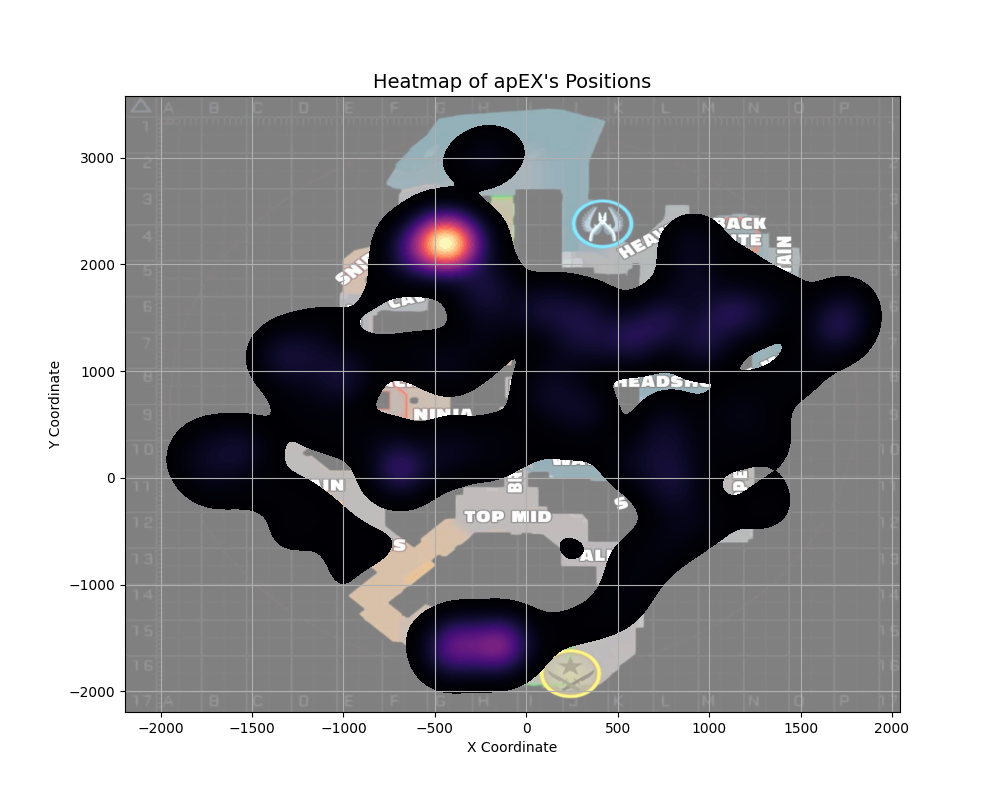
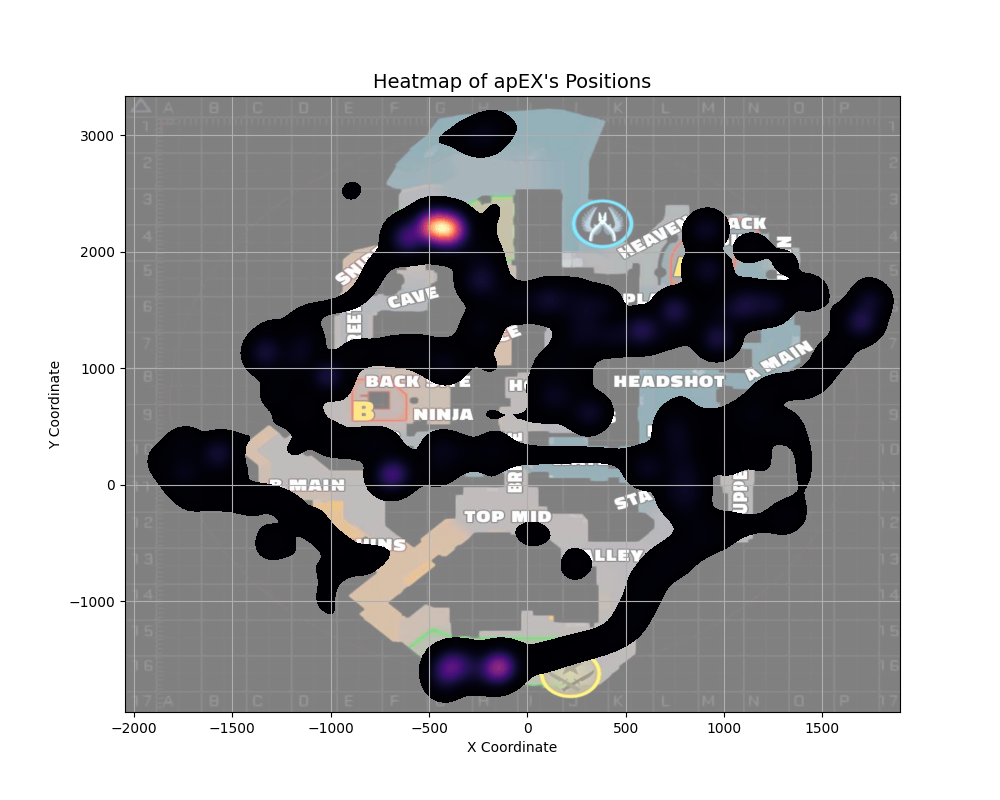
Heatmaps & similarity results plot

diff --git a/player_similarity.py b/player_similarity.py
@@ -11,11 +11,26 @@ import argparse
 from scipy.spatial.distance import jensenshannon
 from cursor_movement import compute_derivatives
 from scipy.stats import wasserstein_distance
-
+from scipy.stats import ks_2samp
+import matplotlib
+matplotlib.use('wxAgg')
+import matplotlib.pyplot as plt
 
 tick_props = [
     'pitch',
     'yaw',
+    'X',
+    'Y',
+    'ducking',
+    'is_airborne',
+]
+
+players_of_interest = [
+    "ZywOo",
+    "ropz",
+    "flameZ",
+    "mezii",
+    "apEX",
 ]
 
 def filter_player_and_map(ticks: pd.DataFrame, player_name: str, map_name: str) -> pd.DataFrame:
@@ -30,13 +45,52 @@ def compute_similarity(new_features: pd.DataFrame, known_features: pd.DataFrame)
     Computes a confidence score based on multiple similarity metrics.
     """
     return (
-        compute_cursor_similarity(new_features, known_features)
+        compute_cursor_similarity_wasserstein(new_features, known_features)
         # TODO: add more metrics here
         # such as heatmap, crouching/jumping, weapon usage, etc.
     ) / 1
     
 
-def compute_cursor_similarity(new_features: pd.DataFrame, known_features: pd.DataFrame) -> float:
+def compute_cursor_similarity_jensenshannon(new_features: pd.DataFrame, known_features: pd.DataFrame) -> float:
+    """
+    Computes a confidence score based on multiple similarity metrics.
+    """
+    new_features = compute_derivatives(new_features, ['yaw', 'pitch'])
+    known_features = compute_derivatives(known_features, ['yaw', 'pitch'])
+
+    pitch_speed_1, _ = np.histogram(new_features['pitch_speed'], bins=50, density=True)
+    pitch_speed_2, _ = np.histogram(known_features['pitch_speed'], bins=50, density=True)
+
+    pitch_speed_jsd = jensenshannon(pitch_speed_1, pitch_speed_2)
+
+    pitch_acceleration_1, _ = np.histogram(new_features['pitch_acceleration'], bins=50, density=True)
+    pitch_acceleration_2, _ = np.histogram(known_features['pitch_acceleration'], bins=50, density=True)
+
+    pitch_acceleration_jsd = jensenshannon(pitch_acceleration_1, pitch_acceleration_2)
+
+    pitch_smoothness_1, _ = np.histogram(new_features['pitch_smoothness'], bins=50, density=True)
+    pitch_smoothness_2, _ = np.histogram(known_features['pitch_smoothness'], bins=50, density=True)
+
+    pitch_smoothness_jsd = jensenshannon(pitch_smoothness_1, pitch_smoothness_2)
+
+    yaw_speed_1, _ = np.histogram(new_features['yaw_speed'], bins=50, density=True)
+    yaw_speed_2, _ = np.histogram(known_features['yaw_speed'], bins=50, density=True)
+
+    yaw_speed_jsd = jensenshannon(yaw_speed_1, yaw_speed_2)
+
+    yaw_acceleration_1, _ = np.histogram(new_features['yaw_acceleration'], bins=50, density=True)
+    yaw_acceleration_2, _ = np.histogram(known_features['yaw_acceleration'], bins=50, density=True)
+
+    yaw_acceleration_jsd = jensenshannon(yaw_acceleration_1, yaw_acceleration_2)
+
+    yaw_smoothness_1, _ = np.histogram(new_features['yaw_smoothness'], bins=50, density=True)
+    yaw_smoothness_2, _ = np.histogram(known_features['yaw_smoothness'], bins=50, density=True)
+
+    yaw_smoothness_jsd = jensenshannon(yaw_smoothness_1, yaw_smoothness_2)
+
+    return 1 - (pitch_speed_jsd + pitch_acceleration_jsd + pitch_smoothness_jsd + yaw_speed_jsd + yaw_acceleration_jsd + yaw_smoothness_jsd) / 6
+
+def compute_cursor_similarity_wasserstein(new_features: pd.DataFrame, known_features: pd.DataFrame) -> float:
     """
     Computes a confidence score based on multiple similarity metrics.
     """
@@ -52,42 +106,170 @@ def compute_cursor_similarity(new_features: pd.DataFrame, known_features: pd.Dat
     p3 = wasserstein_distance(new_features['pitch_smoothness'], known_features['pitch_smoothness'])
     return 1 - (y1 + y2 + y3 + p1 + p2 + p3) / 6
 
+def evaluate_players(new_ticks: pd.DataFrame, known_ticks: pd.DataFrame, players: list, map_name: str):
+    """
+    Evaluate the similarity scores for players of interest.
+    """
+    self_similarities = []
+    other_similarities = []
+    all_players = known_ticks['name'].unique()
 
+    for player in tqdm(players, desc="Evaluating players"):
+        # Filter features for the current player
+        new_features = filter_player_and_map(new_ticks, player, map_name)
+        known_features = filter_player_and_map(known_ticks, player, map_name)
+
+        # Compute self-similarity
+        if not new_features.empty and not known_features.empty:
+            self_similarity = compute_similarity(new_features, known_features)
+            self_similarities.append(self_similarity)
+        
+        # Compute similarity with other players
+        for other_player in [p for p in all_players if p != player]:
+            other_features = filter_player_and_map(known_ticks, other_player, map_name)
+            if not new_features.empty and not other_features.empty:
+                other_similarity = compute_similarity(new_features, other_features)
+                other_similarities.append(other_similarity)
+
+    # Calculate averages
+    avg_self_similarity = np.mean(self_similarities) if self_similarities else 0
+    min_self_similarity = np.min(self_similarities) if self_similarities else 0
+    max_self_similarity = np.max(self_similarities) if self_similarities else 0
+    avg_other_similarity = np.mean(other_similarities) if other_similarities else 0
+    min_other_similarity = np.min(other_similarities) if other_similarities else 0
+    max_other_similarity = np.max(other_similarities) if other_similarities else 0
+
+
+    # Display results
+    print("\nEvaluation Results:")
+    print(f"Average self-similarity: {avg_self_similarity:.4f}")
+    print(f"Min. self-similarity: {min_self_similarity:.4f}")
+    print(f"Max. self-similarity: {max_self_similarity:.4f}")
+    print('-' * 40)
+    print(f"Average similarity with other players: {avg_other_similarity:.4f}")
+    print(f"Min. similarity with other players: {min_other_similarity:.4f}")
+    print(f"Max. similarity with other players: {max_other_similarity:.4f}")
+
+def plot_similarity_results():
+    """
+    Plots a grouped bar chart of similarity evaluation results.
+    
+    Parameters:
+        results (list of dicts): Each dict contains similarity metrics for a dataset.
+            Example format:
+            {
+                "label": "Dataset 1",
+                "avg_self": 0.85,
+                "min_self": 0.70,
+                "max_self": 0.95,
+                "avg_other": 0.65,
+                "min_other": 0.50,
+                "max_other": 0.80
+            }
+    """
+    results = [
+        {
+            "label": "Jensen-Shannon",
+            "avg_self": 0.4534,
+            "min_self": 0.3276,
+            "max_self": 0.6264,
+            "avg_other": 0.4927,
+            "min_other": 0.2364,
+            "max_other": 0.9702,
+        },
+        {
+            "label": "Wasserstein",
+            "avg_self": 0.9348,
+            "min_self": 0.8272,
+            "max_self": 0.9927,
+            "avg_other": 0.8476,
+            "min_other": 0.2843,
+            "max_other": 0.9850,
+        }
+    ]
+    categories = ["Avg Self", "Min Self", "Max Self", "Avg Other", "Min Other", "Max Other"]
+    num_categories = len(categories)
+    num_datasets = len(results)
+    
+    x = np.arange(num_categories)  # X-axis positions for each category
+    bar_width = 0.8 / num_datasets  # Adjust width dynamically
+
+    colors = ["#1f77b4", "#ff7f0e", "#2ca02c", "#d62728", "#9467bd", "#7f7f7f"]  # Blue, Orange, Green, Red, Purple, Gray
+
+    fig, ax = plt.subplots(figsize=(10 + num_datasets, 6))
+
+    for i, dataset in enumerate(results):
+        shift = (i - (num_datasets - 1) / 2) * bar_width  # Center bars in each category
+        ax.bar(x + shift, 
+               [dataset["avg_self"], dataset["min_self"], dataset["max_self"], 
+                dataset["avg_other"], dataset["min_other"], dataset["max_other"]], 
+               width=bar_width, 
+               color=colors[i % len(colors)],  # Use professional colors
+               label=dataset["label"])
+
+    # Formatting
+    ax.set_xticks(x)
+    ax.set_xticklabels(categories)
+    ax.set_ylabel("Similarity Score")
+    ax.set_title("Self-Similarity vs. Similarity with Others")
+    ax.legend()
+    ax.set_ylim(0, 1)  # Assuming similarity scores are between 0 and 1
+
+    # plt.show()
+    plt.savefig("./figures/player_similarity_evaluation.png", dpi=300)
 
 def main():
     parser = argparse.ArgumentParser(description='Compute player similarity between new and known demo files.')
     parser.add_argument('new_demo_folder', type=util.dir_path, help='Path to the folder containing the new demo file')
     parser.add_argument('known_demo_folder', type=util.dir_path, help='Path to the folder containing known demo files')
-    parser.add_argument('--player', type=str, required=True, help='Player name to compare')
+    parser.add_argument('--player', type=str, help='Player name to compare')
     parser.add_argument('--map', type=str, help='Map to filter comparisons')
     parser.add_argument('--limit', type=int, default=None, help='Limit the number of demo files to process')
+    parser.add_argument('--limit_new', type=int, default=None, help='Limit the number of demo files to process')
+    parser.add_argument('--evaluate', action='store_true', help='Evaluate players of interest')
+    parser.add_argument('--plot', action='store_true', help='Plot similarity evaluation results')
 
     args = parser.parse_args()
 
+    if args.plot:
+        plot_similarity_results()
+        return
+
     # Merge demo files for new and known demos
-    new_ticks, _ = merger.merge_demo_files(args.new_demo_folder, tick_props, limit=args.limit)
+    new_ticks, _ = merger.merge_demo_files(args.new_demo_folder, tick_props, limit=args.limit_new)
     known_ticks, _ = merger.merge_demo_files(args.known_demo_folder, tick_props, limit=args.limit)
+
+    # Ensure no duplicate matches, if sourcing from the same folder
+    known_ticks = known_ticks[~known_ticks['match'].isin(new_ticks['match'])]
 
     new_ticks = util.split_list_columns(new_ticks)
     known_ticks = util.split_list_columns(known_ticks)
 
-    # Extract features for the player in the new demo
-    new_features = filter_player_and_map(new_ticks, args.player, args.map)
+    if args.evaluate:
+        # Evaluate players of interest
+        evaluate_players(new_ticks, known_ticks, players_of_interest, args.map)
+    else:
+        if not args.player:
+            print("Error: --player is required unless --evaluate is specified.")
+            return
 
-    # Compare against all players in the known demos
-    known_players = known_ticks['name'].unique()
-    similarities = []
+        # Extract features for the player in the new demo
+        new_features = filter_player_and_map(new_ticks, args.player, args.map)
 
-    for known_player in tqdm(known_players, desc="Comparing against known players"):
-        known_features = filter_player_and_map(known_ticks, known_player, args.map)
-        similarity = compute_similarity(new_features, known_features)
-        similarities.append((known_player, similarity))
+        # Compare against all players in the known demos
+        known_players = known_ticks['name'].unique()
+        similarities = []
 
-    # Sort by similarity and display results
-    similarities.sort(key=lambda x: x[1], reverse=True)
-    print("\nPlayer Similarity Rankings:")
-    for rank, (player, score) in enumerate(similarities, start=1):
-        print(f"{rank}. {player}: {score:.4f}")
+        for known_player in tqdm(known_players, desc="Comparing against known players"):
+            known_features = filter_player_and_map(known_ticks, known_player, args.map)
+            similarity = compute_similarity(new_features, known_features)
+            similarities.append((known_player, similarity))
+
+        # Sort by similarity and display results
+        similarities.sort(key=lambda x: x[1], reverse=True)
+        print("\nPlayer Similarity Rankings:")
+        for rank, (player, score) in enumerate(similarities, start=1):
+            print(f"{rank}. {player}: {score:.4f}")
 
 if __name__ == '__main__':
     main()

diff --git a/heatmaps.py b/heatmaps.py
@@ -24,11 +24,12 @@ players_of_interest = [
 def main():
     parser = argparse.ArgumentParser(description='Generate heatmaps of player locations')
     parser.add_argument('folder', type=util.dir_path, help='Path to the folder containing .dem files')
+    parser.add_argument('--limit', type=int, default=None, help='Limit the number of demo files to process')
     parser.add_argument('--min_vel', type=float, help="The minimum velocity to show in the heatmap. Ticks with velocity lower than this will not be shown")
 
     args = parser.parse_args()
 
-    ticks, _ = merger.merge_demo_files(args.folder, ['X', 'Y', 'Z', 'velocity'], True, limit=10, players_of_interest=players_of_interest)
+    ticks, _ = merger.merge_demo_files(args.folder, ['X', 'Y', 'Z', 'velocity'], True, players_of_interest=players_of_interest, limit=args.limit)
     matches = util.parse_matches_from_ticks(ticks)
 
     print("Generating heatmaps")
@@ -85,7 +86,10 @@ def generate_heatmap(df: pd.DataFrame, map_name: str, title: str, save_path: str
         thresh=0.05, 
         levels=100,
         ax=ax,
-        zorder=1
+        zorder=1,
+        bw_adjust=0.5,
+        # gridsize=100,
+        # thresh=0.05,
     )
 
     map_path = f'./maps/{map_name}.jpg'
